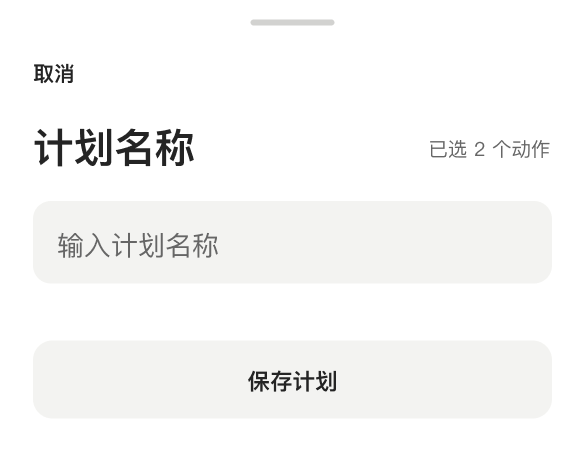
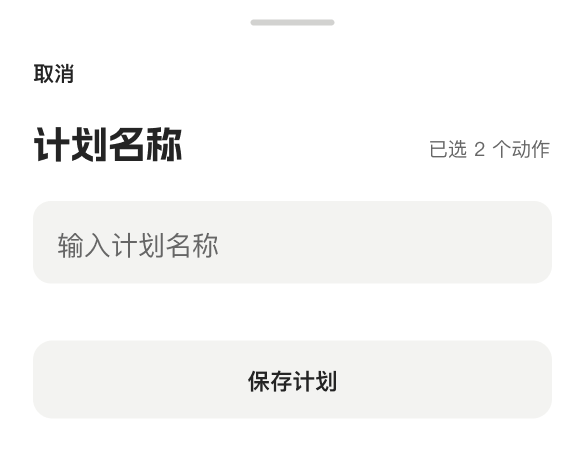
按手机手改稿统一健身原型的排版与触区

Changed region(s): [[0.0615, 0.2733, 0.3385, 0.3644]]

diff --git a/docs/设计日志/健身/设计日志.md b/docs/设计日志/健身/设计日志.md
@@ -103,3 +103,10 @@
 - 在独立副本合入健身增量。切换前发现初版构建的 public 目录多嵌套了一层，拦下后重新打包并加入目录对比。最终包保留旧版全部 23 条应用路由，14 个已有 public 文件的路径和字节完全一致；新增健身、图像及署名路由。
[1 lines of base64/hex data omitted]
 - 外部网络回读手机／桌面登录跳转与提示、ToDo 及宣传页、登录和 PWA 静态资源、未登录图片请求。备份和现库完整性检查通过，非健身表结构一致。新版本完整业务源码包已回传服务器交接目录并复核 SHA-256，见[当前状态](新窗口交接.md)。
+
+## 2026-11-12-02｜手机原型跟随左侧手改稿
+
+- 通过 Figwright 连接 Figma EX 的 `foilo-健身页面`，逐类对照七张主画板与四个原型状态区。沿用手改稿的 25 px 阿里妈妈数黑体标题和 22 px 常规字重计划名。保存后首页与最小化首页同步品牌图标、横线和卡片位置，新建按钮高 45 px，与最后一张卡片相隔 8 px。
+- 浏览筛选状态去掉重复页眉，搜索、筛选、列表和对应触区一起上移 45 px。列表署名收起，使用插图的动作详情仍可打开来源与许可。多选完成改用勾选按钮，空选淡显，可完成时保留 50 × 46 px 触区。
+- 训练计时与计划标题统一为 25 px；临时加动作后的三项操作与主训练页同序。完成总结与历史概览沿用 20 px 指标数字，将明细提前展示。日历在格内用两行显示训练名与容量，下方直接显示所选日期的记录或空态。
+- 回读七张主画板及四区共 100 张原型状态，抽查 167 个点击图层的交互动作与目标，另外核对 13 个可提交勾选按钮的触区层级。已更新[流程总览和代表页面预览](预览/手机网页/流程总览.png)。用户本轮先看 Figma，生产网页沿用 20261112-01。上述尺寸作为本轮设计稿记录，待评审。

diff --git a/docs/设计日志/健身/新窗口交接.md b/docs/设计日志/健身/新窗口交接.md
@@ -4,7 +4,7 @@
 
 ## 本轮工作
 
-业务应用已发布。生产基准为服务器交接源码合入健身增量后的构建，日常设计与工作记录在 `main`。
+2026-11-12 在 Windows 的 `main` 工作窗口完成手机原型排版同步。左侧七张主画板为评审基准，右侧的建计划、训练、日记与浏览状态已复核。大标题采用用户手改的 25 px 阿里妈妈数黑体；首页保留品牌图标、标题横线和错落双卡。动作库收紧页头，训练概览收紧指标与明细的距离。下一步由用户先评审[可点原型](https://www.figma.com/proto/qdopzPVPXyrlbQuaPA6ZYa/?node-id=8-245&starting-point-node-id=8%3A245)。本轮范围为 Figma，线上版本见下文。
 
 ## 当前设计与入口
 
